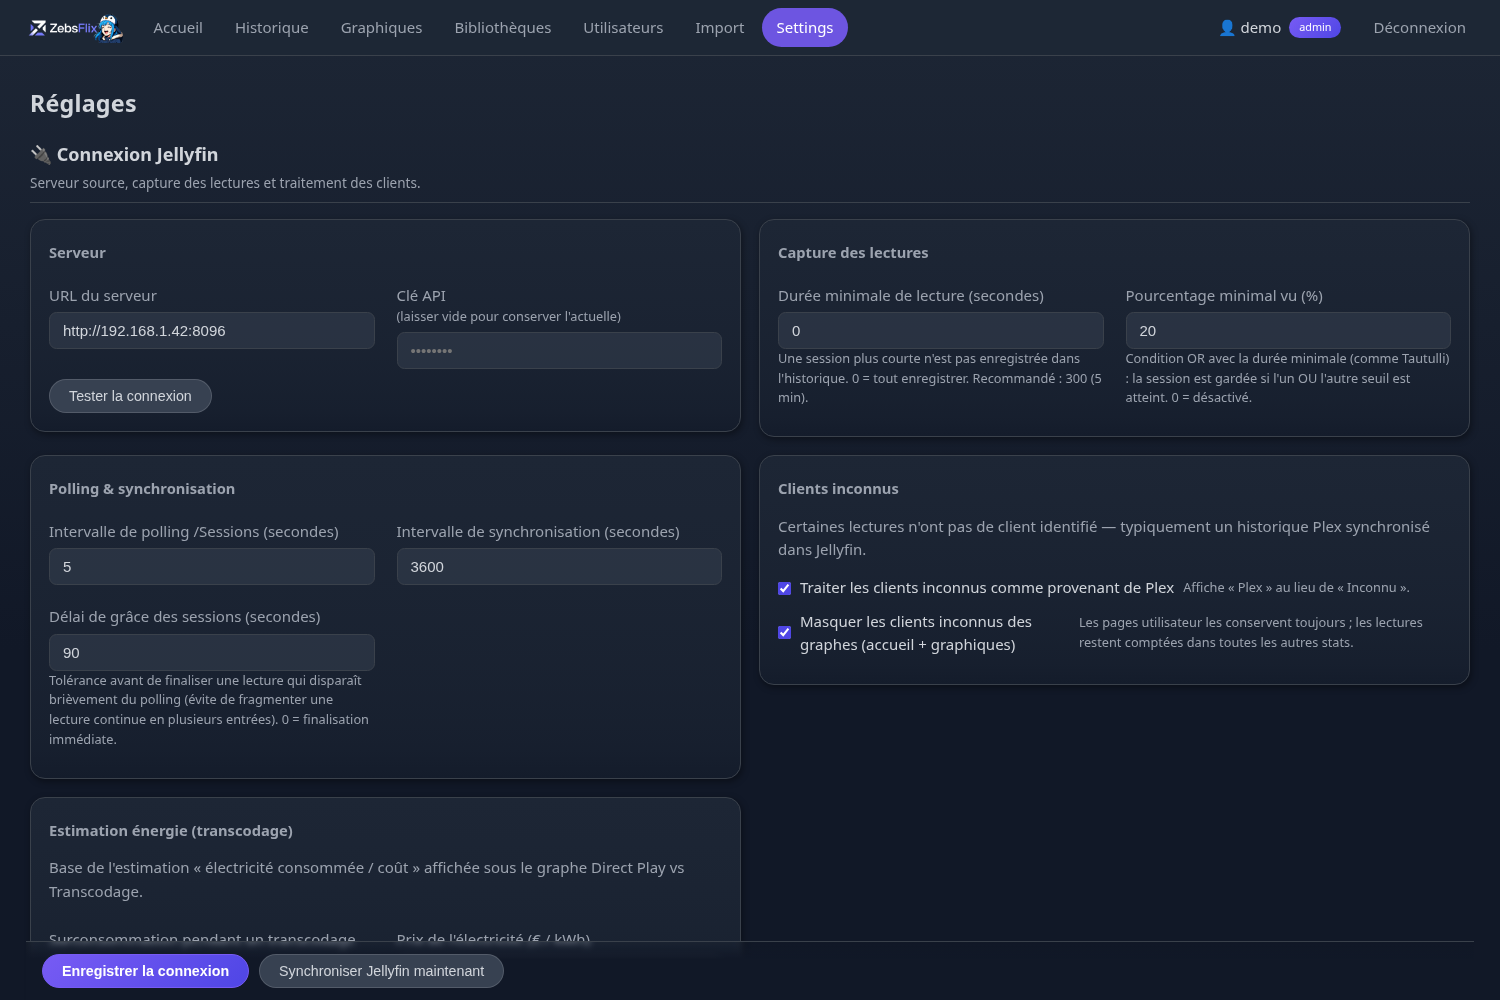
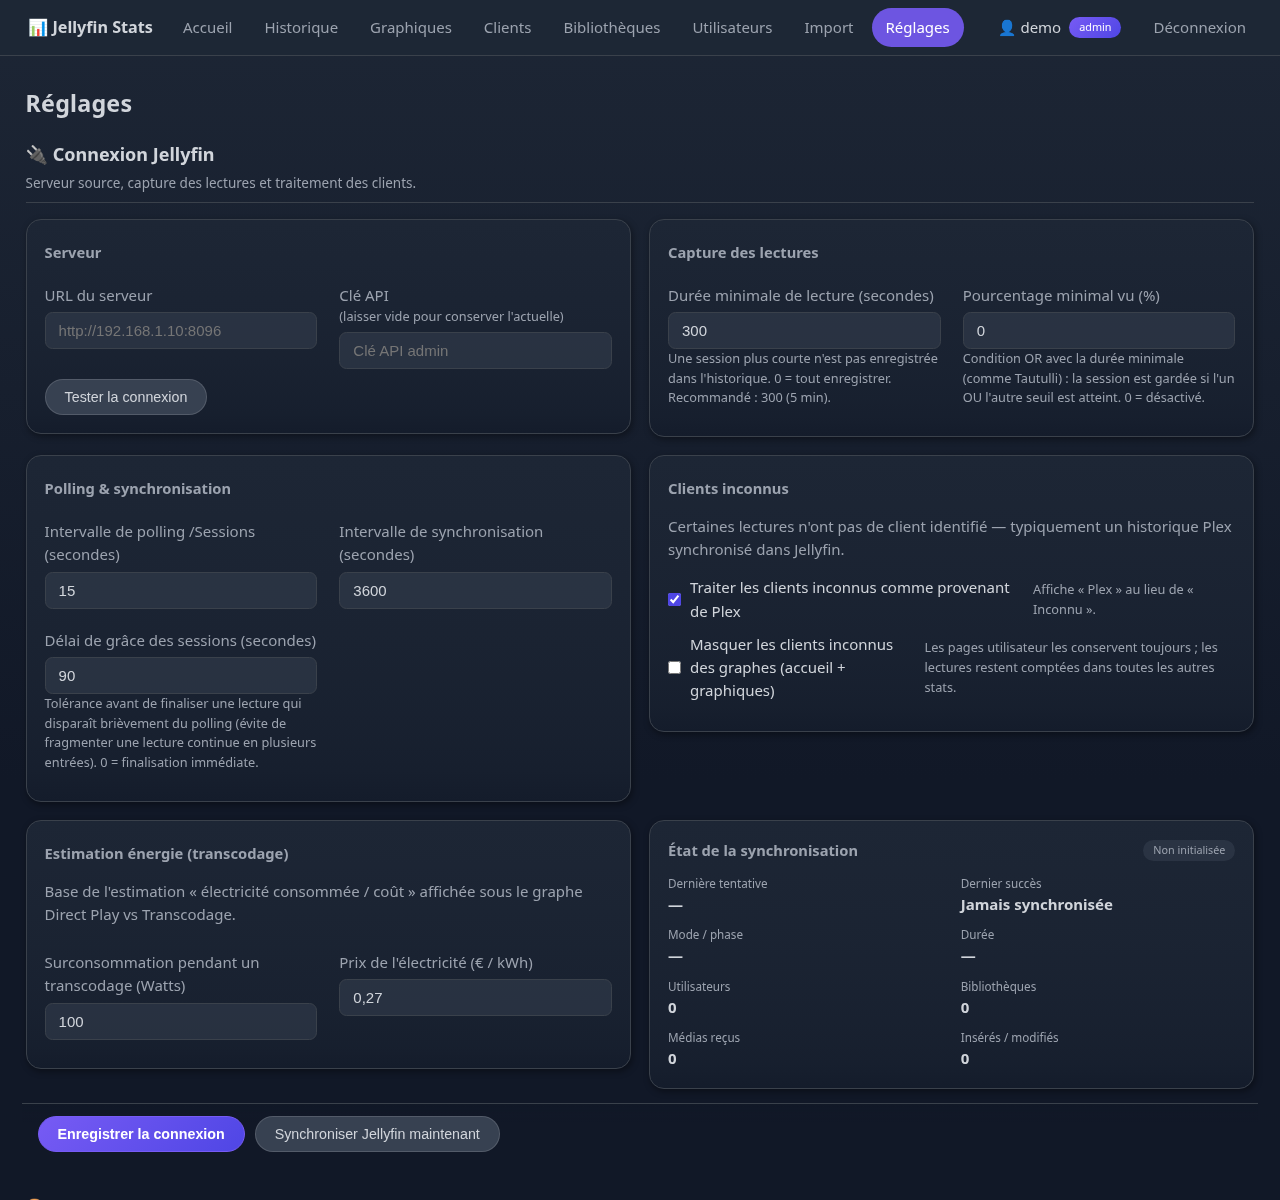
chore: prepare v0.2.0 release candidate

diff --git a/tests/test_release_v020.py b/tests/test_release_v020.py
@@ -1,0 +1,46 @@
+import tempfile
+import unittest
+from pathlib import Path
+from unittest.mock import patch
+
+from fastapi.testclient import TestClient
+
+from jellyfin_stats import __version__, auth, database
+from jellyfin_stats.config import Config
+from jellyfin_stats.main import create_app
+
+
+class ReleaseV020Tests(unittest.TestCase):
+    def test_application_reports_version_0_2_0(self):
+        self.assertEqual(__version__, "0.2.0")
+
+    def test_schema_remains_v5(self):
+        with tempfile.TemporaryDirectory() as tmp:
+            database.init(str(Path(tmp) / "tautufin.db"))
+            version = database.query_one("SELECT version FROM schema_version")
+        self.assertEqual(version["version"], 5)
+
+    def test_clients_route_navigation_and_static_assets_are_served(self):
+        with tempfile.TemporaryDirectory() as tmp:
+            root = Path(tmp)
+            config = Config(str(root / "config.ini"))
+            config.set("Database", "path", str(root / "tautufin.db"))
+            config.save()
+            database.init(config.database_path)
+            app = create_app(config)
+            client = TestClient(app)
+            user = auth.CurrentUser("token", "local", "Admin", "admin", None)
+            with patch("jellyfin_stats.auth.resolve_session", return_value=user):
+                page = client.get("/clients")
+                script = client.get("/static/js/clients.js")
+
+        self.assertEqual(page.status_code, 200)
+        self.assertIn('href="/clients"', page.text)
+        self.assertIn("chart-state.js", page.text)
+        self.assertLess(page.text.index("chart-state.js"), page.text.index("clients.js"))
+        self.assertEqual(script.status_code, 200)
+        self.assertIn("ChartState.load", script.text)
+
+
+if __name__ == "__main__":
+    unittest.main()

diff --git a/tests/test_release_v012.py b/tests/test_release_v012.py
@@ -9,8 +9,8 @@ TEMPLATES = ROOT / "data" / "interfaces" / "default" / "templates"
 
 
 class ReleaseV012Tests(unittest.TestCase):
-    def test_application_version_is_0_1_2(self):
-        self.assertEqual(__version__, "0.1.2")
+    def test_application_remains_upgrade_compatible_with_0_1_2(self):
+        self.assertGreaterEqual(tuple(map(int, __version__.split("."))), (0, 1, 2))
 
     def test_visible_templates_use_reglages_not_settings(self):
         occurrences = []

diff --git a/jellyfin_stats/__init__.py b/jellyfin_stats/__init__.py
@@ -1,1 +1,1 @@
-__version__ = "0.1.2"
+__version__ = "0.2.0"

diff --git a/README.md b/README.md
@@ -33,8 +33,11 @@ utilisateurs, auto-hébergé.
 - 📊 **Graphiques riches** (Chart.js) : lectures dans le temps, films / séries /
   musique, top utilisateurs, genres, acteurs, réalisateurs, résolutions, clients,
   Direct Play vs transcodage…
+- 📱 **Diagnostic Clients** : KPIs, classement triable, méthodes de lecture,
+  résolutions/codecs et constats déterministes sur les transcodages
 - 📜 **Historique** filtrable (utilisateur, type, bibliothèque, période),
-  recherchable, triable et paginé — avec poster et logo du client
+  recherchable, triable et paginé — filtres partageables dans l'URL, reset,
+  total explicite, poster et logo du client
 - 👤 **Profils par utilisateur** : KPIs, clients préférés, top film/série/chanson
   (par temps de visionnage), habitudes (jour, heure), lectures récentes
 - ✨ **Wrapped** : rétrospective annuelle par utilisateur (tops, genres,
@@ -50,6 +53,10 @@ utilisateurs, auto-hébergé.
   **et** backup [Streamystats](https://github.com/fredrikburmester/streamystats)
   (idempotent)
 - ⚡ **Estimation de conso** : électricité et coût imputables au transcodage
+- 🩺 **Santé de synchronisation persistante** dans Réglages : dernière tentative,
+  dernier succès, mode, compteurs et erreur utilisateur assainie
+- 🔁 **États graphiques explicites** : chargement, absence de données, erreur et
+  nouvelle tentative ciblée au lieu d'un échec silencieux
 - 🛠 **Maintenance** intégrée : sauvegarde, vérification et réinitialisation de
   la base
 - 🖼 Posters et avatars servis via un **proxy côté serveur** avec cache — la clé
@@ -198,6 +205,17 @@ période (base configurable dans les Réglages).
 
 ![Graphiques](docs/screenshots/graphiques.png)
 
+### Clients
+
+Vue historique dédiée aux clients : sept indicateurs, classement triable et cinq
+graphiques bornés (utilisation, méthodes, résolutions, codecs vidéo et audio).
+Le diagnostic signale uniquement des constats vérifiables dans les chiffres ; il
+reste neutre quand aucune conclusion fiable n'est disponible. Les utilisateurs
+standard restent strictement limités à leur propre historique ; admin et droit
+*vision* disposent de la vue globale et du filtre utilisateur.
+
+![Clients](docs/screenshots/clients.png)
+
 ### Profil utilisateur
 
 Indicateurs clés, répartition par type, clients préférés, **top film / série /
@@ -227,8 +245,10 @@ en posters.
 ### Historique
 
 Tableau filtrable (utilisateur, type, bibliothèque, dates, recherche), triable et
-paginé. Poster du média (poster de la **série** pour un épisode), logo du client,
-et — pour les admins — l'adresse IP.
+paginé. Les filtres sont reflétés dans l'URL, restaurés avec précédent/suivant,
+affichés sous forme de chips supprimables et réinitialisables. Le total et les
+erreurs sont explicites. Poster du média (poster de la **série** pour un épisode),
+logo du client et — pour les admins — adresse IP.
 
 ![Historique](docs/screenshots/historique.png)
 
@@ -242,8 +262,8 @@ temps total, dernière activité). Chaque ligne mène au profil correspondant.
 ### Réglages
 
 Organisés en sections : **Connexion Jellyfin** (serveur, capture, polling,
-clients inconnus, base de l'estimation énergie), **Apparence**, **Accès &
-utilisateurs**, et **Maintenance**.
+clients inconnus, base de l'estimation énergie et santé persistante de la
+synchronisation), **Apparence**, **Accès & utilisateurs**, et **Maintenance**.
 
 ![Réglages](docs/screenshots/reglages.png)
 
@@ -323,6 +343,14 @@ Section *Réglages → Maintenance* (admin) :
   sont conservés** ; les données Jellyfin sont repeuplées à la synchro suivante.
   Action irréversible — exportez un backup d'abord.
 
+### Mise à niveau depuis v0.1.2
+
+L'image `v0.2.0` démarre directement sur une configuration et une base `v0.1.2`.
+Le schéma SQLite reste en **version 5** : aucune migration v6, aucun export/import
+et aucune reconstruction de l'historique ne sont nécessaires. La nouvelle santé
+de synchronisation utilise une clé JSON dans `sync_state`; une ancienne version
+l'ignore, ce qui conserve un rollback simple vers `v0.1.2`.
+
 ---
 
 ## Configuration (`config.ini`)
@@ -355,6 +383,7 @@ jellyfin_stats/
 ├── jellyfin_api.py      # wrapper API Jellyfin
 ├── activity.py          # suivi des sessions + seuils de durée minimale
 ├── history.py           # historique (filtres, tri, pagination)
+├── clients.py           # diagnostic historique clients/transcodages
 ├── graphs.py            # agrégations pour Chart.js
 ├── users.py             # profils & gestion des utilisateurs
 ├── libraries.py         # bibliothèques & catalogue
